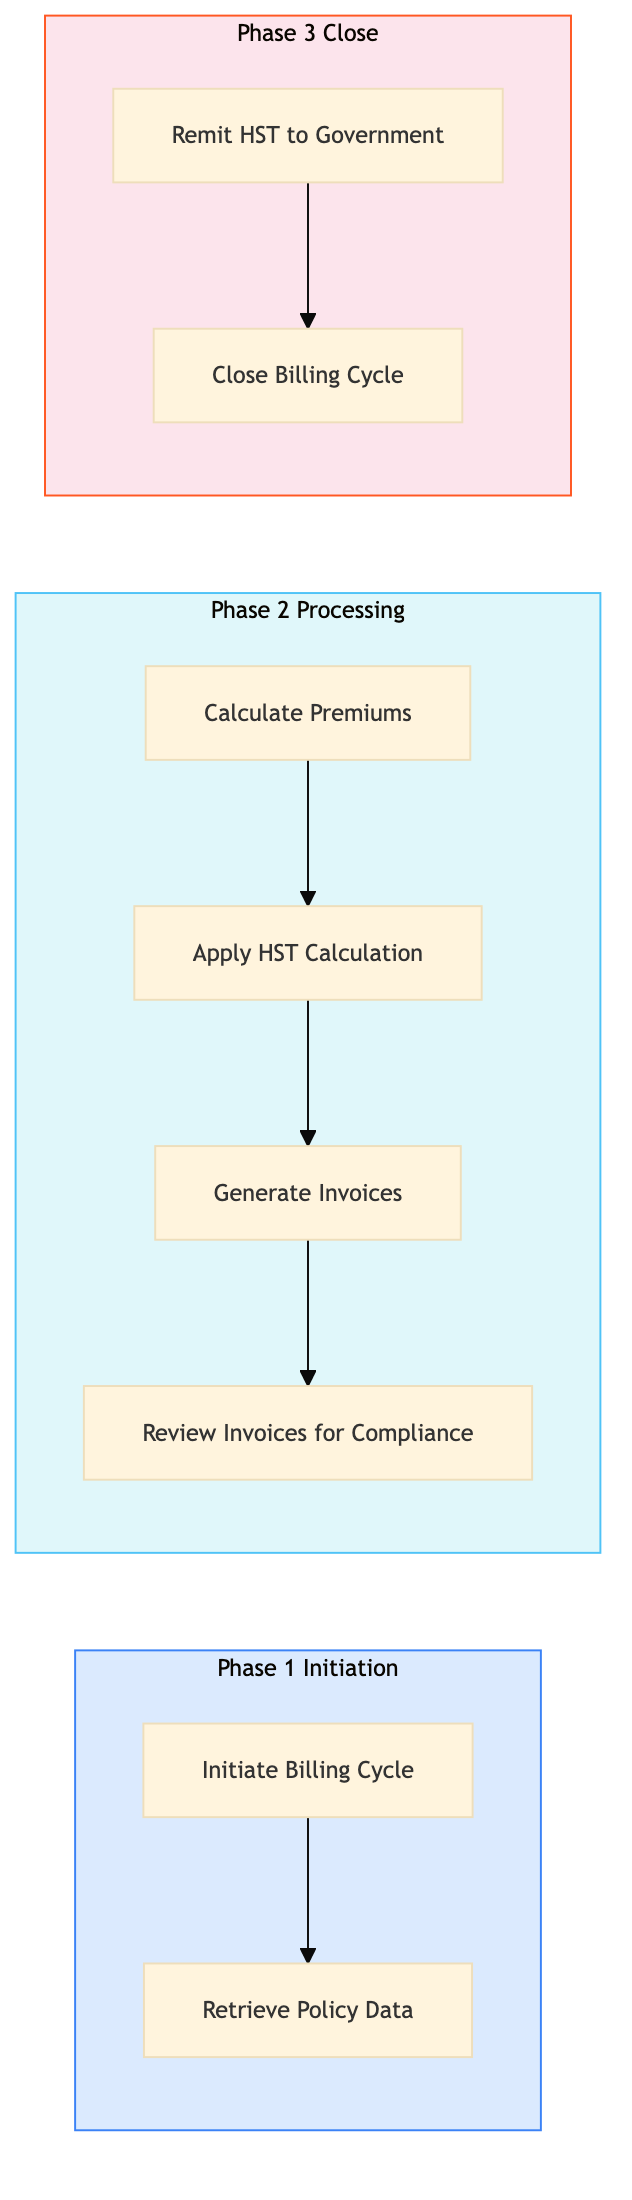
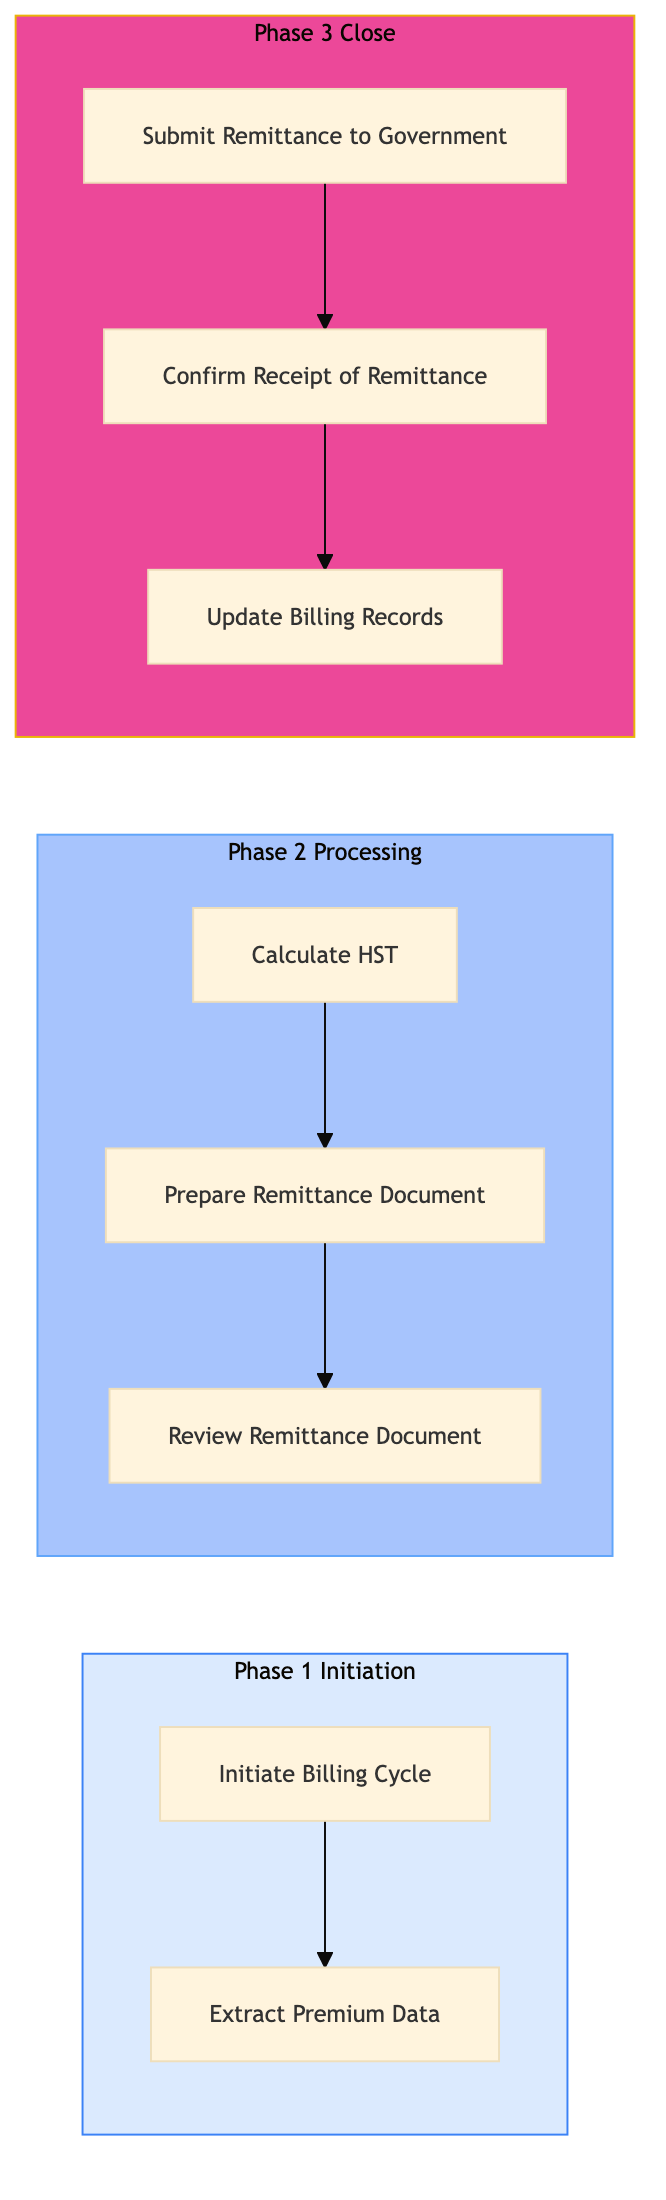
feat: add CAA-CI-BI-07 — HST Calculation and Remittance (Ontario 13 percent)

diff --git a/caa-insurance/caa-insurance-billing/caa-ci-bi-07.html b/caa-insurance/caa-insurance-billing/caa-ci-bi-07.html
@@ -23,40 +23,16 @@
     <div class="nav-l2-group">
       <a class="nav-l2-title" href="../../shared-membership/membership-enrolment/index.html">Membership Enrolment & Sales</a>
       <div class="nav-l3-list">
-        <a class="nav-l3" href="../../shared-membership/membership-enrolment/shared-mb-en-01.html">SHARED-MB-EN-01 &mdash; New Member Walk-In Enrolment (Branch)</a>
-        <a class="nav-l3" href="../../shared-membership/membership-enrolment/shared-mb-en-02.html">SHARED-MB-EN-02 &mdash; Online Membership Self-Enrolment (Web/Ap</a>
-        <a class="nav-l3" href="../../shared-membership/membership-enrolment/shared-mb-en-03.html">SHARED-MB-EN-03 &mdash; Phone Enrolment via Contact Centre</a>
-        <a class="nav-l3" href="../../shared-membership/membership-enrolment/shared-mb-en-04.html">SHARED-MB-EN-04 &mdash; Affiliate and Employer Group Enrolment</a>
-        <a class="nav-l3" href="../../shared-membership/membership-enrolment/shared-mb-en-05.html">SHARED-MB-EN-05 &mdash; Membership Tier Selection and Upsell</a>
-        <a class="nav-l3" href="../../shared-membership/membership-enrolment/shared-mb-en-06.html">SHARED-MB-EN-06 &mdash; Payment Processing and First-Year Billin</a>
-        <a class="nav-l3" href="../../shared-membership/membership-enrolment/shared-mb-en-07.html">SHARED-MB-EN-07 &mdash; Welcome Kit and Digital Card Issuance</a>
-        <a class="nav-l3" href="../../shared-membership/membership-enrolment/shared-mb-en-08.html">SHARED-MB-EN-08 &mdash; Duplicate Member Detection and Merge</a>
       </div>
     </div>
     <div class="nav-l2-group">
       <a class="nav-l2-title" href="../../shared-membership/membership-renewal/index.html">Membership Renewal & Retention</a>
       <div class="nav-l3-list">
-        <a class="nav-l3" href="../../shared-membership/membership-renewal/shared-mb-rn-01.html">SHARED-MB-RN-01 &mdash; Annual Renewal Notice Generation and Dis</a>
-        <a class="nav-l3" href="../../shared-membership/membership-renewal/shared-mb-rn-02.html">SHARED-MB-RN-02 &mdash; Auto-Renewal Processing (Credit Card on </a>
-        <a class="nav-l3" href="../../shared-membership/membership-renewal/shared-mb-rn-03.html">SHARED-MB-RN-03 &mdash; Lapsed Member Reinstatement Campaign</a>
-        <a class="nav-l3" href="../../shared-membership/membership-renewal/shared-mb-rn-04.html">SHARED-MB-RN-04 &mdash; Membership Upgrade and Tier Change Proce</a>
-        <a class="nav-l3" href="../../shared-membership/membership-renewal/shared-mb-rn-05.html">SHARED-MB-RN-05 &mdash; Associate and Household Member Add-On Pr</a>
-        <a class="nav-l3" href="../../shared-membership/membership-renewal/shared-mb-rn-06.html">SHARED-MB-RN-06 &mdash; Cancellation Request Handling and Save O</a>
-        <a class="nav-l3" href="../../shared-membership/membership-renewal/shared-mb-rn-07.html">SHARED-MB-RN-07 &mdash; Renewal Rate Review and Pricing Update</a>
-        <a class="nav-l3" href="../../shared-membership/membership-renewal/shared-mb-rn-08.html">SHARED-MB-RN-08 &mdash; Membership Winback Campaign (12-36 Month</a>
       </div>
     </div>
     <div class="nav-l2-group">
       <a class="nav-l2-title" href="../../shared-membership/member-services/index.html">Member Services & Benefits</a>
       <div class="nav-l3-list">
-        <a class="nav-l3" href="../../shared-membership/member-services/shared-mb-sv-01.html">SHARED-MB-SV-01 &mdash; Member Discount Partner Redemption</a>
-        <a class="nav-l3" href="../../shared-membership/member-services/shared-mb-sv-02.html">SHARED-MB-SV-02 &mdash; Passport Photo Service Delivery (Branch)</a>
-        <a class="nav-l3" href="../../shared-membership/member-services/shared-mb-sv-03.html">SHARED-MB-SV-03 &mdash; International Driving Permit (IDP) Proce</a>
-        <a class="nav-l3" href="../../shared-membership/member-services/shared-mb-sv-04.html">SHARED-MB-SV-04 &mdash; Notary and Document Authentication Servi</a>
-        <a class="nav-l3" href="../../shared-membership/member-services/shared-mb-sv-05.html">SHARED-MB-SV-05 &mdash; Member Portal Profile and Preferences Ma</a>
-        <a class="nav-l3" href="../../shared-membership/member-services/shared-mb-sv-06.html">SHARED-MB-SV-06 &mdash; Lost and Stolen Membership Card Replacem</a>
-        <a class="nav-l3" href="../../shared-membership/member-services/shared-mb-sv-07.html">SHARED-MB-SV-07 &mdash; Member Data Privacy Request (CCPA and PI</a>
-        <a class="nav-l3" href="../../shared-membership/member-services/shared-mb-sv-08.html">SHARED-MB-SV-08 &mdash; Member Satisfaction Survey and NPS Track</a>
       </div>
     </div>
   </div>
@@ -336,7 +312,7 @@
           <span class="pid-badge org-badge-caa">CAA</span>
           CAA-CI-BI-07 &mdash; HST Calculation and Remittance (Ontario 13 percent)
         </h1>
-        <p>This process calculates and remits Harmonized Sales Tax (HST) for CAA South Central Ontario members based on their insurance premiums. It ensures compliance with FSRA regulations and integrates with Guidewire InsuranceSuite, Galileo GDS, and other systems.</p>
+        <p>This process calculates and remits Harmonized Sales Tax (HST) for insurance premiums in Ontario, ensuring compliance with FSRA regulations.</p>
       </div>
 
       <!-- BPMN Diagram -->
@@ -363,9 +339,9 @@
             <tr><th>L2 Process</th><td>Billing & Premium Management (CAA)</td></tr>
             <tr><th>L3 Name</th><td>HST Calculation and Remittance (Ontario 13 percent)</td></tr>
             <tr><th>Trigger</th><td>Monthly billing cycle initiation</td></tr>
-            <tr><th>Outcome</th><td>Successful completion produces accurate HST calculations and remittances to the government for all eligible policies.</td></tr>
-            <tr><th>Org Notes</th><td>CAA South Central Ontario follows specific FSRA regulations for HST calculation, differing from AAA's approach in handling tax compliance.</td></tr>
-            <tr><th>Systems</th><td><span class="sys-tag guidewire">Guidewire InsuranceSuite</span> <span class="sys-tag galileo">Galileo GDS</span> <span class="sys-tag fsra">FSRA</span> <span class="sys-tag sap">SAP S/4HANA</span></td></tr>
+            <tr><th>Outcome</th><td>Successful HST calculation and remittance to the government</td></tr>
+            <tr><th>Org Notes</th><td>CAA South Central Ontario specifically handles HST calculations and remittances for Ontario residents, adhering to provincial tax laws and regulatory requirements. This process is distinct from AAA's handling of HST due to regional differences in tax rates and regulations.</td></tr>
+            <tr><th>Systems</th><td><span class="sys-tag guidewire">Guidewire InsuranceSuite</span> <span class="sys-tag galileo">Galileo GDS</span> <span class="sys-tag sys-generic">ClientBase</span> <span class="sys-tag powerbi">Power BI</span> <span class="sys-tag aws">AWS</span></td></tr>
           </table>
         </div>
       </div>
@@ -387,96 +363,96 @@
         <tr>
           <td class="step-num">1.1</td>
           <td>Initiate Billing Cycle</td>
-          <td>Billing Manager</td>
+          <td>Billing Administrator</td>
           <td><span class="sys-tag guidewire">Guidewire InsuranceSuite</span></td>
-          <td>Policy data and premium information</td>
-          <td>Billing cycle start notification</td>
-          <td>Billing cycle initiation time < 2 hours</td>
-          <td>Late billing cycle initiation affecting tax deadlines</td>
+          <td>Policy data, premium information</td>
+          <td>Billing cycle started</td>
+          <td>Cycle initiation time < 2 hours</td>
+          <td>Delayed billing cycles affecting cash flow</td>
           <td>N</td>
           <td><span class="exception-y">Y</span></td>
         </tr>
         <tr>
           <td class="step-num">1.2</td>
-          <td>Retrieve Policy Data</td>
-          <td>Billing Analyst</td>
+          <td>Extract Premium Data</td>
+          <td>Billing Administrator</td>
           <td><span class="sys-tag guidewire">Guidewire InsuranceSuite</span></td>
-          <td>Billing cycle start notification</td>
-          <td>Policy data with premium details</td>
-          <td>Data retrieval accuracy > 99%</td>
-          <td>Inaccurate policy data leading to incorrect HST calculations</td>
+          <td>Billing cycle start</td>
+          <td>Premium data extracted</td>
+          <td>Data extraction accuracy > 99%</td>
+          <td>Inaccurate premium data leading to tax errors</td>
           <td>N</td>
           <td><span class="exception-y">Y</span></td>
         </tr>
         <tr>
           <td class="step-num">2.1</td>
-          <td>Calculate Premiums</td>
-          <td>Billing Analyst</td>
+          <td>Calculate HST</td>
+          <td>Billing Administrator</td>
           <td><span class="sys-tag guidewire">Guidewire InsuranceSuite</span></td>
-          <td>Policy data with premium details</td>
-          <td>Calculated premiums</td>
-          <td>Premium calculation accuracy > 98%</td>
-          <td>Errors in premium calculations affecting member payments</td>
+          <td>Premium data</td>
+          <td>HST calculated</td>
+          <td>HST calculation accuracy > 99%</td>
+          <td>Incorrect HST calculations resulting in penalties</td>
           <td>N</td>
           <td><span class="exception-y">Y</span></td>
         </tr>
         <tr>
           <td class="step-num">2.2</td>
-          <td>Apply HST Calculation</td>
-          <td>Billing Analyst</td>
+          <td>Prepare Remittance Document</td>
+          <td>Billing Administrator</td>
           <td><span class="sys-tag guidewire">Guidewire InsuranceSuite</span></td>
-          <td>Calculated premiums</td>
-          <td>Premiums with HST applied</td>
-          <td>HST calculation accuracy > 98%</td>
-          <td>Incorrect HST application leading to non-compliance</td>
+          <td>HST calculated</td>
+          <td>Remittance document prepared</td>
+          <td>Document preparation time < 1 hour</td>
+          <td>Late remittances causing financial penalties</td>
           <td>N</td>
           <td><span class="exception-y">Y</span></td>
         </tr>
         <tr>
           <td class="step-num">2.3</td>
-          <td>Generate Invoices</td>
-          <td>Billing Analyst</td>
+          <td>Review Remittance Document</td>
+          <td>Tax Compliance Officer</td>
           <td><span class="sys-tag guidewire">Guidewire InsuranceSuite</span></td>
-          <td>Premiums with HST applied</td>
-          <td>Invoices for members</td>
-          <td>Invoice generation time < 4 hours</td>
-          <td>Delayed invoice generation affecting member payments</td>
-          <td>N</td>
-          <td><span class="exception-y">Y</span></td>
-        </tr>
-        <tr>
-          <td class="step-num">3.1</td>
-          <td>Review Invoices for Compliance</td>
-          <td>Compliance Officer</td>
-          <td><span class="sys-tag guidewire">Guidewire InsuranceSuite</span></td>
-          <td>Invoices for members</td>
-          <td>Compliant invoices</td>
-          <td>Invoice compliance rate > 95%</td>
-          <td>Non-compliant invoices leading to fines</td>
+          <td>Remittance document prepared</td>
+          <td>Remittance document reviewed and approved</td>
+          <td>Review time < 2 hours</td>
+          <td>Non-compliance with tax regulations</td>
           <td><span class="decision-y">Y</span></td>
           <td>N</td>
         </tr>
         <tr>
-          <td class="step-num">3.2</td>
-          <td>Remit HST to Government</td>
-          <td>Finance Officer</td>
+          <td class="step-num">3.1</td>
+          <td>Submit Remittance to Government</td>
+          <td>Tax Compliance Officer</td>
           <td><span class="sys-tag galileo">Galileo GDS</span></td>
-          <td>Compliant invoices</td>
-          <td>HST remittance confirmation</td>
-          <td>HST remittance accuracy > 98%</td>
-          <td>Incorrect HST remittance causing financial penalties</td>
+          <td>Approved remittance document</td>
+          <td>Remittance submitted</td>
+          <td>Submission time < 24 hours</td>
+          <td>Failed submissions causing delays</td>
+          <td>N</td>
+          <td><span class="exception-y">Y</span></td>
+        </tr>
+        <tr>
+          <td class="step-num">3.2</td>
+          <td>Confirm Receipt of Remittance</td>
+          <td>Tax Compliance Officer</td>
+          <td><span class="sys-tag galileo">Galileo GDS</span></td>
+          <td>Remittance submitted</td>
+          <td>Receipt confirmation received</td>
+          <td>Confirmation receipt time < 48 hours</td>
+          <td>Lost remittances leading to audits</td>
           <td>N</td>
           <td><span class="exception-y">Y</span></td>
         </tr>
         <tr>
           <td class="step-num">3.3</td>
-          <td>Close Billing Cycle</td>
-          <td>Billing Manager</td>
+          <td>Update Billing Records</td>
+          <td>Billing Administrator</td>
           <td><span class="sys-tag guidewire">Guidewire InsuranceSuite</span></td>
-          <td>HST remittance confirmation</td>
-          <td>Billing cycle closure report</td>
-          <td>Billing cycle closure time < 1 hour</td>
-          <td>Delayed billing cycle closure affecting financial reporting</td>
+          <td>Receipt confirmation received</td>
+          <td>Billing records updated</td>
+          <td>Record update accuracy > 98%</td>
+          <td>Inaccurate record updates affecting customer billing</td>
           <td>N</td>
           <td><span class="exception-y">Y</span></td>
         </tr>
@@ -491,9 +467,9 @@
         <div class="card-header">&#x1F4CA; KPIs &amp; Risk Register</div>
         <div class="card-body">
           <p class="mb-8"><strong>KPIs</strong></p>
-          <div class="kpi-list mb-8"><span class="kpi-pill">Billing cycle initiation time < 2 hours</span> <span class="kpi-pill">Data retrieval accuracy > 99%</span> <span class="kpi-pill">Premium calculation accuracy > 98%</span> <span class="kpi-pill">HST calculation accuracy > 98%</span> <span class="kpi-pill">Invoice generation time < 4 hours</span> <span class="kpi-pill">Invoice compliance rate > 95%</span> <span class="kpi-pill">HST remittance accuracy > 98%</span> <span class="kpi-pill">Billing cycle closure time < 1 hour</span></div>
+          <div class="kpi-list mb-8"><span class="kpi-pill">Cycle initiation time < 2 hours</span> <span class="kpi-pill">Data extraction accuracy > 99%</span> <span class="kpi-pill">HST calculation accuracy > 99%</span> <span class="kpi-pill">Document preparation time < 1 hour</span> <span class="kpi-pill">Review time < 2 hours</span> <span class="kpi-pill">Submission time < 24 hours</span> <span class="kpi-pill">Confirmation receipt time < 48 hours</span> <span class="kpi-pill">Record update accuracy > 98%</span></div>
           <p class="mb-8" style="margin-top:16px"><strong>Key Risks</strong></p>
-          <div class="kpi-list"><span class="risk-pill">Late billing cycle initiation affecting tax deadlines</span> <span class="risk-pill">Inaccurate policy data leading to incorrect HST calculations</span> <span class="risk-pill">Errors in premium calculations affecting member payments</span> <span class="risk-pill">Incorrect HST application leading to non-compliance</span> <span class="risk-pill">Delayed invoice generation affecting member payments</span> <span class="risk-pill">Non-compliant invoices leading to fines</span> <span class="risk-pill">Incorrect HST remittance causing financial penalties</span> <span class="risk-pill">Delayed billing cycle closure affecting financial reporting</span></div>
+          <div class="kpi-list"><span class="risk-pill">Delayed billing cycles affecting cash flow</span> <span class="risk-pill">Inaccurate premium data leading to tax errors</span> <span class="risk-pill">Incorrect HST calculations resulting in penalties</span> <span class="risk-pill">Late remittances causing financial penalties</span> <span class="risk-pill">Non-compliance with tax regulations</span> <span class="risk-pill">Failed submissions causing delays</span> <span class="risk-pill">Lost remittances leading to audits</span> <span class="risk-pill">Inaccurate record updates affecting customer billing</span></div>
         </div>
       </div>
 

diff --git a/caa-insurance/caa-insurance-billing/index.html b/caa-insurance/caa-insurance-billing/index.html
@@ -133,6 +133,7 @@
         <a class="nav-l3" href="../../caa-insurance/caa-insurance-billing/caa-ci-bi-03.html">CAA-CI-BI-03 &mdash; EFT and Credit Card and Cheque Payment P</a>
         <a class="nav-l3" href="../../caa-insurance/caa-insurance-billing/caa-ci-bi-04.html">CAA-CI-BI-04 &mdash; NSF Handling and Policy Suspension (Onta</a>
         <a class="nav-l3" href="../../caa-insurance/caa-insurance-billing/caa-ci-bi-05.html">CAA-CI-BI-05 &mdash; Agent and Broker Commission Statement (B</a>
+        <a class="nav-l3" href="../../caa-insurance/caa-insurance-billing/caa-ci-bi-06.html">CAA-CI-BI-06 &mdash; Refund and Returned Premium Calculation</a>
       </div>
     </div>
     <div class="nav-l2-group">
@@ -304,7 +305,7 @@
           <a href="../index.html">CAA Insurance (Ontario)</a>
         </div>
         <h1>🍁 Billing & Premium Management (CAA)</h1>
-        <p>5 of 8 processes complete</p>
+        <p>6 of 8 processes complete</p>
       </div>
       <div class="card">
         <div class="card-header">Process List</div>
@@ -316,7 +317,7 @@
 <tr><td><a href="caa-ci-bi-03.html">CAA-CI-BI-03</a></td><td>EFT and Credit Card and Cheque Payment Processing</td><td><span style="color:#16a34a;font-weight:700">&#x2705; Complete</span></td></tr>
 <tr><td><a href="caa-ci-bi-04.html">CAA-CI-BI-04</a></td><td>NSF Handling and Policy Suspension (Ontario Insurance Act)</td><td><span style="color:#16a34a;font-weight:700">&#x2705; Complete</span></td></tr>
 <tr><td><a href="caa-ci-bi-05.html">CAA-CI-BI-05</a></td><td>Agent and Broker Commission Statement (BillingCenter)</td><td><span style="color:#16a34a;font-weight:700">&#x2705; Complete</span></td></tr>
-<tr><td>CAA-CI-BI-06</td><td>Refund and Returned Premium Calculation</td><td><span style="color:#94a3b8">&#x23F3; Queued</span></td></tr>
+<tr><td><a href="caa-ci-bi-06.html">CAA-CI-BI-06</a></td><td>Refund and Returned Premium Calculation</td><td><span style="color:#16a34a;font-weight:700">&#x2705; Complete</span></td></tr>
 <tr><td>CAA-CI-BI-07</td><td>HST Calculation and Remittance (Ontario 13 percent)</td><td><span style="color:#94a3b8">&#x23F3; Queued</span></td></tr>
 <tr><td>CAA-CI-BI-08</td><td>Premium Tax Filing (Ontario 2 percent provincial tax)</td><td><span style="color:#94a3b8">&#x23F3; Queued</span></td></tr>
 </tbody>

diff --git a/index.html b/index.html
@@ -133,6 +133,7 @@
         <a class="nav-l3" href="caa-insurance/caa-insurance-billing/caa-ci-bi-03.html">CAA-CI-BI-03 &mdash; EFT and Credit Card and Cheque Payment P</a>
         <a class="nav-l3" href="caa-insurance/caa-insurance-billing/caa-ci-bi-04.html">CAA-CI-BI-04 &mdash; NSF Handling and Policy Suspension (Onta</a>
         <a class="nav-l3" href="caa-insurance/caa-insurance-billing/caa-ci-bi-05.html">CAA-CI-BI-05 &mdash; Agent and Broker Commission Statement (B</a>
+        <a class="nav-l3" href="caa-insurance/caa-insurance-billing/caa-ci-bi-06.html">CAA-CI-BI-06 &mdash; Refund and Returned Premium Calculation</a>
       </div>
     </div>
     <div class="nav-l2-group">
@@ -304,10 +305,10 @@
       </div>
 
       <div class="stats-bar">
-        <div class="stat-card"><div class="stat-num">57</div><div class="stat-label">Processes Complete</div></div>
+        <div class="stat-card"><div class="stat-num">58</div><div class="stat-label">Processes Complete</div></div>
         <div class="stat-card"><div class="stat-num">268</div><div class="stat-label">Total Processes</div></div>
         <div class="stat-card"><div class="stat-num">34</div><div class="stat-label">AAA Complete</div></div>
-        <div class="stat-card"><div class="stat-num caa-red">23</div><div class="stat-label">CAA Complete</div></div>
+        <div class="stat-card"><div class="stat-num caa-red">24</div><div class="stat-label">CAA Complete</div></div>
         <div class="stat-card"><div class="stat-num">0</div><div class="stat-label">Shared Complete</div></div>
       </div>
 
@@ -334,7 +335,7 @@
         <span class="nav-org-dot caa" style="display:inline-block;margin-right:4px"></span>
         CAA
       </p>
-      <p class="card-count">23 / 34 processes complete</p>
+      <p class="card-count">24 / 34 processes complete</p>
     </div>
     <div class="domain-card org-shared">
       <h3><a href="shared-roadside/index.html">🚨 Roadside Assistance</a></h3>

diff --git a/caa-insurance/index.html b/caa-insurance/index.html
@@ -133,6 +133,7 @@
         <a class="nav-l3" href="../caa-insurance/caa-insurance-billing/caa-ci-bi-03.html">CAA-CI-BI-03 &mdash; EFT and Credit Card and Cheque Payment P</a>
         <a class="nav-l3" href="../caa-insurance/caa-insurance-billing/caa-ci-bi-04.html">CAA-CI-BI-04 &mdash; NSF Handling and Policy Suspension (Onta</a>
         <a class="nav-l3" href="../caa-insurance/caa-insurance-billing/caa-ci-bi-05.html">CAA-CI-BI-05 &mdash; Agent and Broker Commission Statement (B</a>
+        <a class="nav-l3" href="../caa-insurance/caa-insurance-billing/caa-ci-bi-06.html">CAA-CI-BI-06 &mdash; Refund and Returned Premium Calculation</a>
       </div>
     </div>
     <div class="nav-l2-group">
@@ -301,7 +302,7 @@
       <div class="page-header">
         <div class="breadcrumb"><a href="../index.html">Home</a></div>
         <h1>🍁 CAA Insurance (Ontario)</h1>
-        <p>23 of 34 processes complete across 4 process groups</p>
+        <p>24 of 34 processes complete across 4 process groups</p>
       </div>
       <div class="domain-grid">    <div class="domain-card org-caa">
       <h3><a href="caa-insurance-quoting/index.html">Quoting & Underwriting (CAA)</a></h3>
@@ -313,7 +314,7 @@
     </div>
     <div class="domain-card org-caa">
       <h3><a href="caa-insurance-billing/index.html">Billing & Premium Management (CAA)</a></h3>
-      <p class="card-meta">5/8 processes complete</p>
+      <p class="card-meta">6/8 processes complete</p>
     </div>
     <div class="domain-card org-caa">
       <h3><a href="caa-agency-operations/index.html">Insurance Agency & Broker Operations</a></h3>
